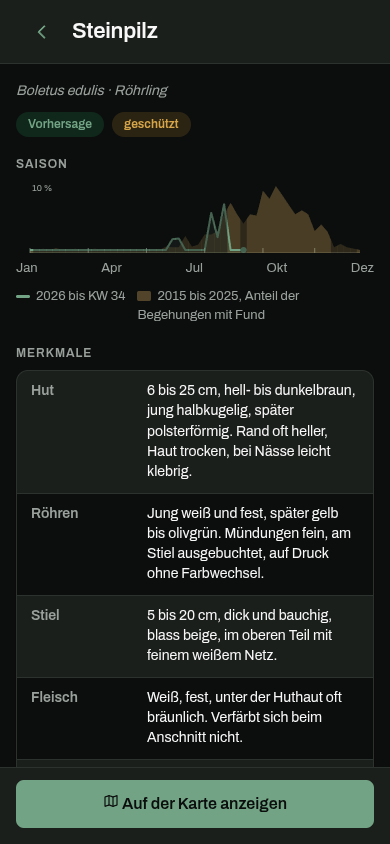
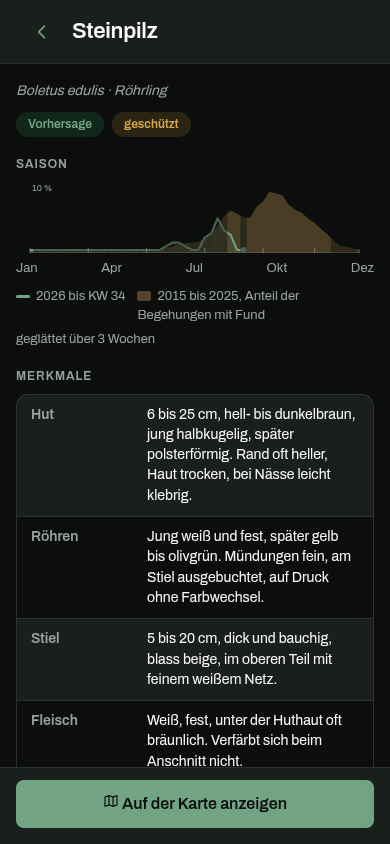
Artenliste nach Stufe, Saisonkurve geglaettet
Unter "alle" standen die 23 Arten mit Vorhersage zwischen 62 Profilen
verstreut. Die Liste steht jetzt nach Stufe und darin nach Namen. Die aktive
Art bleibt an ihrem Platz; sonst spraenge die Liste beim Auswaehlen.

Die Kurve zeichnet ein gleitendes Mittel ueber drei Wochen. Eine Woche mehr
oder weniger ist Zufall des Meldeverhaltens, nicht der Saison. Am Rand
zaehlen die Nachbarn, die es gibt, sonst zoege eine gedachte Null die erste
und die letzte Woche nach unten.

Die Rohwerte bleiben in der Antwort, geglaettet wird nur gezeichnet. Die
Achse behaelt den Hoechstwert der Rohdaten, damit die Zahl neben der Kurve
dieselbe ist wie in der Liste. Die Legende sagt, was mit den Zahlen geschehen
ist.

Claude-Session: https://claude.ai/code/session_01L25szJn4v2B2qU2npaNhGe

diff --git a/frontend/src/app/ui/season-curve/season-curve.component.ts b/frontend/src/app/ui/season-curve/season-curve.component.ts
@@ -1,10 +1,27 @@
-import { ChangeDetectionStrategy, Component, computed, input } from '@angular/core';
+import { ChangeDetectionStrategy, Component, computed, inject, input } from '@angular/core';
+import { I18nService } from '../../core/i18n/i18n.service';
 
 /** Die Marken auf der Grundlinie stehen am Anfang der Monate Jan, Mär, … Nov. */
 const MONATSMARKEN = [0, 9, 18, 27, 36, 44] as const;
 
 /** Der Anteil des stärksten Wertes, unter dem eine Woche als dünn gilt. */
 const DUENN_UNTER = 0.25;
+
+/**
+ * Zentriertes gleitendes Mittel. Am Rand zählen die Nachbarn, die es gibt,
+ * sonst zöge eine gedachte Null die erste und die letzte Woche nach unten.
+ */
+export function glaette(reihe: readonly number[], fenster: number): readonly number[] {
+  if (fenster <= 1) return reihe;
+  const halb = Math.floor(fenster / 2);
+  return reihe.map((_, i) => {
+    const von = Math.max(0, i - halb);
+    const bis = Math.min(reihe.length - 1, i + halb);
+    let summe = 0;
+    for (let k = von; k <= bis; k++) summe += reihe[k];
+    return summe / (bis - von + 1);
+  });
+}
 
 let naechsteNummer = 0;
 
@@ -37,6 +54,11 @@ interface Zeichnung {
  * Sind die Begehungen je Woche bekannt, verblassen die Wochen, die auf wenigen
  * Begehungen ruhen. Ohne diese Zahlen sähe eine Woche mit drei Begehungen aus
  * wie eine mit dreihundert.
+ *
+ * Gezeichnet wird ein gleitendes Mittel über drei Wochen. Eine Woche mehr oder
+ * weniger ist Zufall des Meldeverhaltens, nicht der Saison. Die Achse behält
+ * den Höchstwert der Rohdaten, damit die Zahl neben der Kurve dieselbe ist wie
+ * in der Liste.
  */
 @Component({
   selector: 'app-season-curve',
@@ -59,6 +81,10 @@ export class SeasonCurveComponent {
   readonly begehungenAlleJahre = input<readonly number[]>([]);
   /** Der Nenner der Linie: Begehungen je Kalenderwoche im laufenden Jahr. */
   readonly begehungenLaufendesJahr = input<readonly number[]>([]);
+  /** Breite des gleitenden Mittels in Wochen. 1 zeichnet die Rohwerte. */
+  readonly glaettung = input(3);
+
+  private readonly i18n = inject(I18nService);
 
   protected readonly maskeId = `funke-dicht-${naechsteNummer++}`;
   protected readonly zeichnung = computed<Zeichnung>(() => this.rechne());
@@ -67,10 +93,13 @@ export class SeasonCurveComponent {
     const gross = this.gross();
     const breite = gross ? 330 : 88;
     const hoehe = gross ? 72 : 36;
-    const alle = this.alleJahre();
-    const laufend = this.laufendesJahr();
-    // Ohne Daten bleibt nur die Grundlinie; ein Höchstwert von 0 teilte durch null.
-    const top = Math.max(...alle, ...laufend, Number.EPSILON);
+    const fenster = this.glaettung();
+    const alle = glaette(this.alleJahre(), fenster);
+    const laufend = glaette(this.laufendesJahr(), fenster);
+    // Der Höchstwert kommt aus den Rohdaten, nicht aus der geglätteten Reihe.
+    // Sonst stiege die Kurve über die Zahl an der Achse hinaus.
+    // Ein Höchstwert von 0 teilte durch null; darum die kleinste Zahl als Boden.
+    const top = Math.max(...this.alleJahre(), ...this.laufendesJahr(), Number.EPSILON);
     const punkt = (i: number, wert: number): [number, number] => [
       (i / 51) * breite,
       hoehe - 3 - (wert / top) * (hoehe - 8),
@@ -91,6 +120,10 @@ export class SeasonCurveComponent {
       punktRadius: gross ? 3 : 2,
       duenn: this.duenneWochen(breite),
     };
+  }
+
+  protected glaettungText(): string {
+    return this.i18n.translate('saison.geglaettet', { wochen: this.glaettung() });
   }
 
   /**

diff --git a/frontend/src/app/features/arten/arten.component.spec.ts b/frontend/src/app/features/arten/arten.component.spec.ts
@@ -55,8 +55,25 @@ describe('ArtenComponent', () => {
 
     // Die kleine Kurve zeigt dieselben zwei Reihen wie die Artseite: die Fläche
     // aller Jahre und das laufende Jahr, das mit einem Punkt endet.
-    expect(container.querySelectorAll('.funke__alle')).toHaveLength(3);
-    expect(container.querySelectorAll('.funke__ende')).toHaveLength(3);
+    expect(container.querySelectorAll('.funke__alle')).toHaveLength(4);
+    expect(container.querySelectorAll('.funke__ende')).toHaveLength(4);
+  });
+
+  it('stellt die Arten nach Stufe und darin nach Namen auf', async () => {
+    await aufbauen();
+
+    // Vorhersage vor Saison vor Profil; die 23 Arten mit eigener Karte stehen
+    // damit oben statt zwischen den Profilen verstreut.
+    expect(namen()).toEqual(['Maronenröhrling', 'Steinpilz', 'Semmelstoppelpilz', 'Speisemorchel']);
+  });
+
+  it('lässt die aktive Art an ihrem Platz', async () => {
+    const { zustand, aktualisiere } = await aufbauen();
+
+    zustand.waehle('speisemorchel');
+    aktualisiere();
+
+    expect(namen().at(-1)).toBe('Speisemorchel');
   });
 
   it('sucht in Namen und lateinischen Namen', async () => {
@@ -87,19 +104,19 @@ describe('ArtenComponent', () => {
 
     await userEvent.click(screen.getByRole('button', { name: 'mit Vorhersage' }));
     aktualisiere();
-    expect(namen()).toEqual(['Steinpilz', 'Maronenröhrling']);
+    expect(namen()).toEqual(['Maronenröhrling', 'Steinpilz']);
 
     await userEvent.click(screen.getByRole('button', { name: 'Röhrlinge' }));
     aktualisiere();
-    expect(namen()).toEqual(['Steinpilz', 'Maronenröhrling']);
+    expect(namen()).toEqual(['Maronenröhrling', 'Steinpilz']);
 
     await userEvent.click(screen.getByRole('button', { name: 'Herbst' }));
     aktualisiere();
-    expect(namen()).toEqual(['Steinpilz', 'Maronenröhrling']);
+    expect(namen()).toEqual(['Maronenröhrling', 'Steinpilz', 'Semmelstoppelpilz']);
 
     await userEvent.click(screen.getByRole('button', { name: 'alle' }));
     aktualisiere();
-    expect(namen()).toHaveLength(3);
+    expect(namen()).toHaveLength(4);
   });
 
   it('hebt die aktive Art der Karte hervor', async () => {
@@ -118,22 +135,22 @@ describe('ArtenComponent', () => {
     const { router } = await aufbauen();
     const gerufen = vi.spyOn(router, 'navigate').mockResolvedValue(true);
 
-    screen.getByRole('button', { name: /Steinpilz/ }).focus();
+    screen.getByRole('button', { name: /Maronenröhrling/ }).focus();
     await userEvent.keyboard('{ArrowDown}');
-    expect(screen.getByRole('button', { name: /Maronenröhrling/ })).toHaveFocus();
+    expect(screen.getByRole('button', { name: /Steinpilz/ })).toHaveFocus();
 
     await userEvent.keyboard('{ArrowDown}{ArrowDown}');
     expect(screen.getByRole('button', { name: /Speisemorchel/ })).toHaveFocus();
 
     await userEvent.keyboard('{ArrowUp}{Enter}');
 
-    expect(gerufen).toHaveBeenCalledWith(['/arten', 'maronenroehrling']);
+    expect(gerufen).toHaveBeenCalledWith(['/arten', 'semmelstoppelpilz']);
   });
 
   it('lässt andere Tasten in Ruhe', async () => {
     await aufbauen();
 
-    const erste = screen.getByRole('button', { name: /Steinpilz/ });
+    const erste = screen.getByRole('button', { name: /Maronenröhrling/ });
     erste.focus();
     await userEvent.keyboard('{ArrowLeft}');
 

diff --git a/frontend/src/app/ui/season-curve/season-curve.component.spec.ts b/frontend/src/app/ui/season-curve/season-curve.component.spec.ts
@@ -1,9 +1,26 @@
 import { render, screen } from '@testing-library/angular';
 import { keineVerstoesse } from '../../testing/axe';
-import { SeasonCurveComponent } from './season-curve.component';
+import { SeasonCurveComponent, glaette } from './season-curve.component';
 
 const ALLE = Array.from({ length: 52 }, (_, i) => i / 51);
 const LAUFEND = Array.from({ length: 20 }, (_, i) => i / 51);
+
+describe('glaette', () => {
+  it('mittelt zentriert über drei Wochen', () => {
+    expect(glaette([0, 0, 9, 0, 0], 3)).toEqual([0, 3, 3, 3, 0]);
+  });
+
+  it('nimmt am Rand die Nachbarn, die es gibt', () => {
+    // Eine gedachte Null vor der ersten Woche zöge den Anfang nach unten.
+    expect(glaette([6, 3, 3], 3)).toEqual([4.5, 4, 3]);
+  });
+
+  it('lässt die Rohwerte stehen, wenn das Fenster eine Woche breit ist', () => {
+    const roh = [1, 9, 2];
+
+    expect(glaette(roh, 1)).toBe(roh);
+  });
+});
 
 describe('SeasonCurveComponent', () => {
   it('zeichnet die kleine Kurve mit Beschriftung', async () => {
@@ -68,6 +85,50 @@ describe('SeasonCurveComponent', () => {
 
     expect(screen.getByText('Jan')).toBeInTheDocument();
     expect(screen.getByText('Dez')).toBeInTheDocument();
+  });
+
+  it('zeichnet geglättet, behält aber den Höchstwert der Rohdaten', async () => {
+    // Eine einzelne starke Woche zwischen leeren: geglättet steigt die Kurve
+    // nur auf ein Drittel, die Achse nennt weiter den rohen Höchstwert.
+    const spitze = Array.from({ length: 52 }, (_, i) => (i === 25 ? 30 : 0));
+    const { container } = await render(SeasonCurveComponent, {
+      inputs: { alleJahre: spitze, laufendesJahr: [], beschriftung: 'Saisonkurve', gross: true },
+    });
+
+    const pfad = container.querySelector('.funke__alle')?.getAttribute('d') ?? '';
+    const hoehen = [...pfad.matchAll(/,(\d+\.\d)/g)].map((treffer) => Number(treffer[1]));
+    // 72 - 3 - (10/30) * 64 = 47,7 statt 5,0 bei ungeglätteten 30 Prozent.
+    expect(Math.min(...hoehen)).toBeCloseTo(47.7, 1);
+  });
+
+  it('nennt die Glättung neben der Legende', async () => {
+    await render(SeasonCurveComponent, {
+      inputs: {
+        alleJahre: ALLE,
+        laufendesJahr: LAUFEND,
+        beschriftung: 'Saisonkurve',
+        gross: true,
+        legendeLaufend: '2025 bis KW 39',
+        legendeJahre: '2015 bis 2024',
+      },
+    });
+
+    expect(screen.getByText('geglättet über 3 Wochen')).toBeInTheDocument();
+  });
+
+  it('schweigt über die Glättung, wenn keine stattfindet', async () => {
+    await render(SeasonCurveComponent, {
+      inputs: {
+        alleJahre: ALLE,
+        laufendesJahr: LAUFEND,
+        beschriftung: 'Saisonkurve',
+        gross: true,
+        glaettung: 1,
+        legendeLaufend: '2025 bis KW 39',
+      },
+    });
+
+    expect(screen.queryByText(/geglättet/)).toBeNull();
   });
 
   it('zeichnet ohne Begehungszahlen jede Woche gleich kräftig', async () => {

diff --git a/frontend/src/app/features/arten/arten.component.ts b/frontend/src/app/features/arten/arten.component.ts
@@ -15,7 +15,7 @@ import {
   type Chip,
 } from '../../ui';
 import { ArtenZustand } from './arten.zustand';
-import { STUFE_BADGE, TAG_TEXT } from './beschriftungen';
+import { STUFE_BADGE, STUFE_RANG, TAG_TEXT } from './beschriftungen';
 
 /** „alle“ zeigt den ganzen Katalog, jeder andere Chip ist ein Tag einer Art. */
 type ChipWert = 'alle' | Tag;
@@ -53,6 +53,10 @@ interface Zeile {
  * Der Reiter Arten: Suche, Chips und die Liste mit kleiner Saisonkurve. Der
  * Katalog kommt einmal vom Server; Suche und Chips filtern im Speicher, weil
  * 85 Arten keine Anfrage je Tastendruck wert sind.
+ *
+ * Die Liste steht nach Stufe, innerhalb nach Namen. So stehen unter „alle“ die
+ * 23 Arten mit Vorhersage oben, statt zwischen 62 Profilen verstreut. Die
+ * aktive Art bleibt an ihrem Platz, sonst spränge die Liste beim Auswählen.
  */
 @Component({
   selector: 'app-arten',
@@ -96,10 +100,15 @@ export class ArtenComponent {
     const gesucht = this.suche().trim().toLocaleLowerCase();
     const chip = this.chip();
     const aktiv = this.zustand.aktiveArt();
-    return (this.zustand.liste()?.arten ?? [])
+    // `filter` gibt schon eine eigene Liste zurück; `sort` rührt den Zustand nicht an.
+    const gefiltert = (this.zustand.liste()?.arten ?? [])
       .filter((art) => chip === 'alle' || art.tags.includes(chip))
-      .filter((art) => this.passt(art, gesucht))
-      .map((art) => this.zeile(art, art.slug === aktiv));
+      .filter((art) => this.passt(art, gesucht));
+    gefiltert.sort(
+      (links, rechts) =>
+        STUFE_RANG[links.stufe] - STUFE_RANG[rechts.stufe] || links.name.localeCompare(rechts.name, 'de'),
+    );
+    return gefiltert.map((art) => this.zeile(art, art.slug === aktiv));
   });
 
   constructor() {

diff --git a/frontend/src/app/testing/arten-fixture.ts b/frontend/src/app/testing/arten-fixture.ts
@@ -41,6 +41,16 @@ export const MARONE_KURZ = kurz({
   kartenSlug: 'imleria_badia',
 });
 
+export const SEMMEL_KURZ = kurz({
+  slug: 'semmelstoppelpilz',
+  name: 'Semmelstoppelpilz',
+  lateinisch: 'Hydnum repandum',
+  gruppe: 'stoppelpilz',
+  stufe: 'saison',
+  tags: ['saison', 'stoppelpilz', 'sommer', 'herbst', 'buche'],
+  begehungenMitFund: 180,
+});
+
 export const MORCHEL_KURZ = kurz({
   slug: 'speisemorchel',
   name: 'Speisemorchel',
@@ -63,7 +73,7 @@ export const ARTEN_LISTE: ArtenListe = {
   begehungen: 48_120,
   begehungenJeWocheAlleJahre: BEGEHUNGEN_ALLE,
   begehungenJeWocheLaufendesJahr: BEGEHUNGEN_LAUFEND,
-  arten: [STEINPILZ_KURZ, MARONE_KURZ, MORCHEL_KURZ],
+  arten: [STEINPILZ_KURZ, MARONE_KURZ, SEMMEL_KURZ, MORCHEL_KURZ],
 };
 
 const SAISON: SaisonKurve = {

diff --git a/frontend/src/app/core/i18n/translations.ts b/frontend/src/app/core/i18n/translations.ts
@@ -43,6 +43,7 @@ const de = {
   'fadenkreuz.beschriftung': 'Fundort',
 
   'saison.beschriftung': 'Saisonkurve',
+  'saison.geglaettet': 'geglättet über {wochen} Wochen',
 
   'histogramm.beschriftung': 'Verteilung',
 
@@ -323,6 +324,7 @@ const en: Record<TranslationKey, string> = {
   'fadenkreuz.beschriftung': 'Find location',
 
   'saison.beschriftung': 'Season curve',
+  'saison.geglaettet': 'smoothed over {wochen} weeks',
 
   'histogramm.beschriftung': 'Distribution',
 

diff --git a/frontend/src/app/features/arten/beschriftungen.ts b/frontend/src/app/features/arten/beschriftungen.ts
@@ -116,3 +116,13 @@ export const STUFE_BADGE: Record<Stufe, BadgeVariant> = {
   saison: 'info',
   profil: 'neutral',
 };
+
+/**
+ * Die Reihenfolge der Artenliste. Oben steht, wozu die App am meisten sagen
+ * kann; innerhalb einer Stufe entscheidet der Name.
+ */
+export const STUFE_RANG: Record<Stufe, number> = {
+  vorhersage: 0,
+  saison: 1,
+  profil: 2,
+};

diff --git a/frontend/src/app/ui/season-curve/season-curve.component.html b/frontend/src/app/ui/season-curve/season-curve.component.html
@@ -83,4 +83,7 @@
     <span><i class="funke__muster funke__muster--linie"></i>{{ legendeLaufend() }}</span>
     <span><i class="funke__muster funke__muster--flaeche"></i>{{ legendeJahre() }}</span>
   </div>
+  @if (glaettung() > 1) {
+    <p class="funke__glaettung">{{ glaettungText() }}</p>
+  }
 }

diff --git a/frontend/src/app/features/arten/arten.zustand.spec.ts b/frontend/src/app/features/arten/arten.zustand.spec.ts
@@ -18,7 +18,7 @@ describe('ArtenZustand', () => {
     http.expectOne('/api/arten').flush(ARTEN_LISTE);
     zustand.ladeListe();
 
-    expect(zustand.liste()?.arten).toHaveLength(3);
+    expect(zustand.liste()?.arten).toHaveLength(4);
     http.verify();
   });
 

diff --git a/frontend/src/app/ui/season-curve/season-curve.component.scss b/frontend/src/app/ui/season-curve/season-curve.component.scss
@@ -92,3 +92,10 @@
   background: var(--color-accent);
   opacity: 0.35;
 }
+
+// Der Zusatz zur Legende: was die Kurve mit den Zahlen gemacht hat.
+.funke__glaettung {
+  margin: var(--space-1) 0 0;
+  font-size: 13px;
+  color: var(--color-text-muted);
+}
